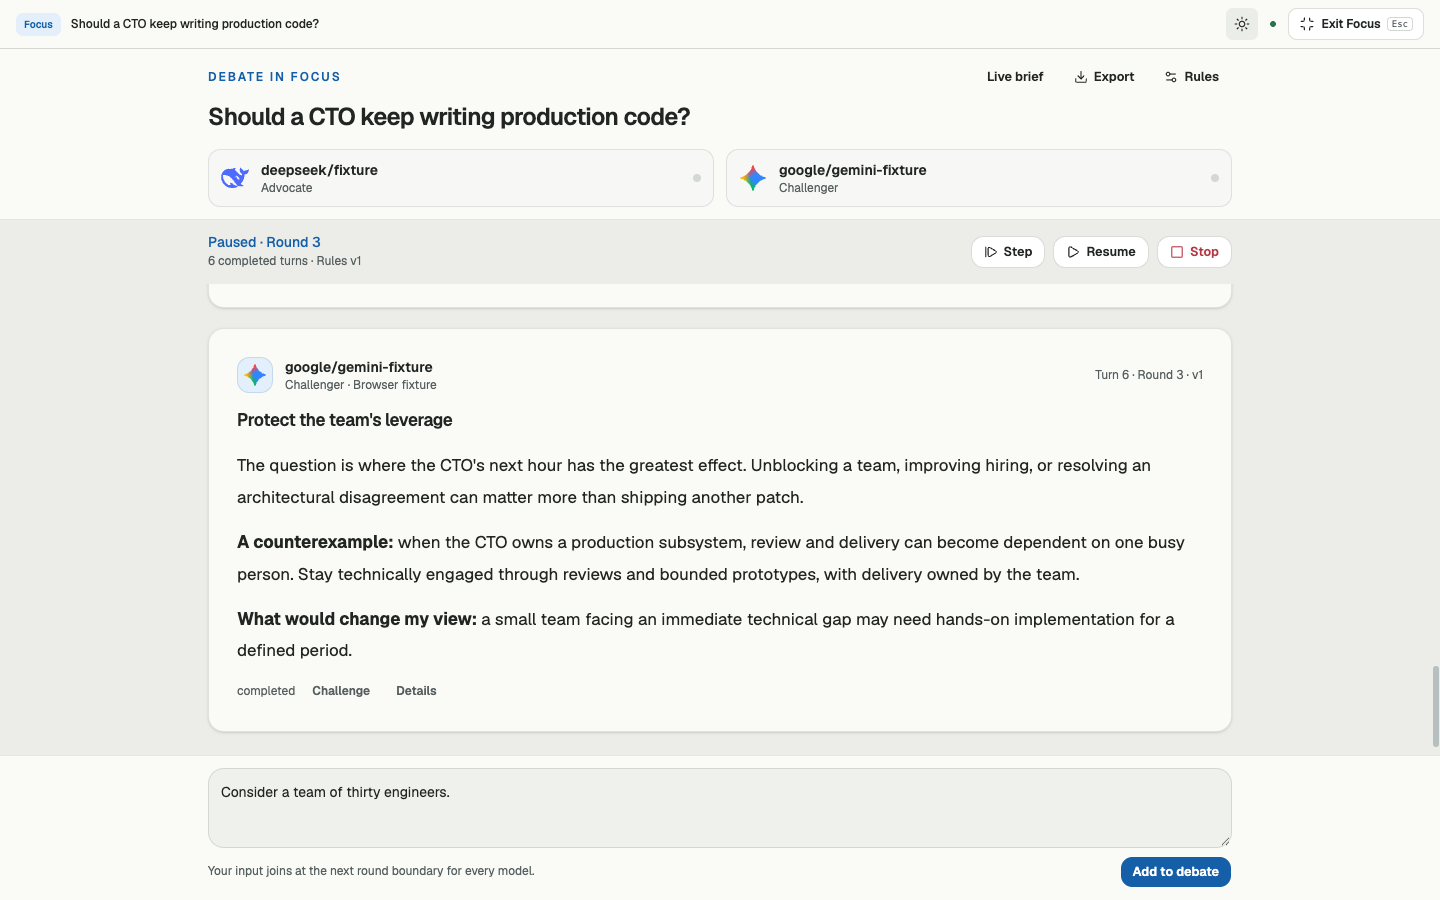
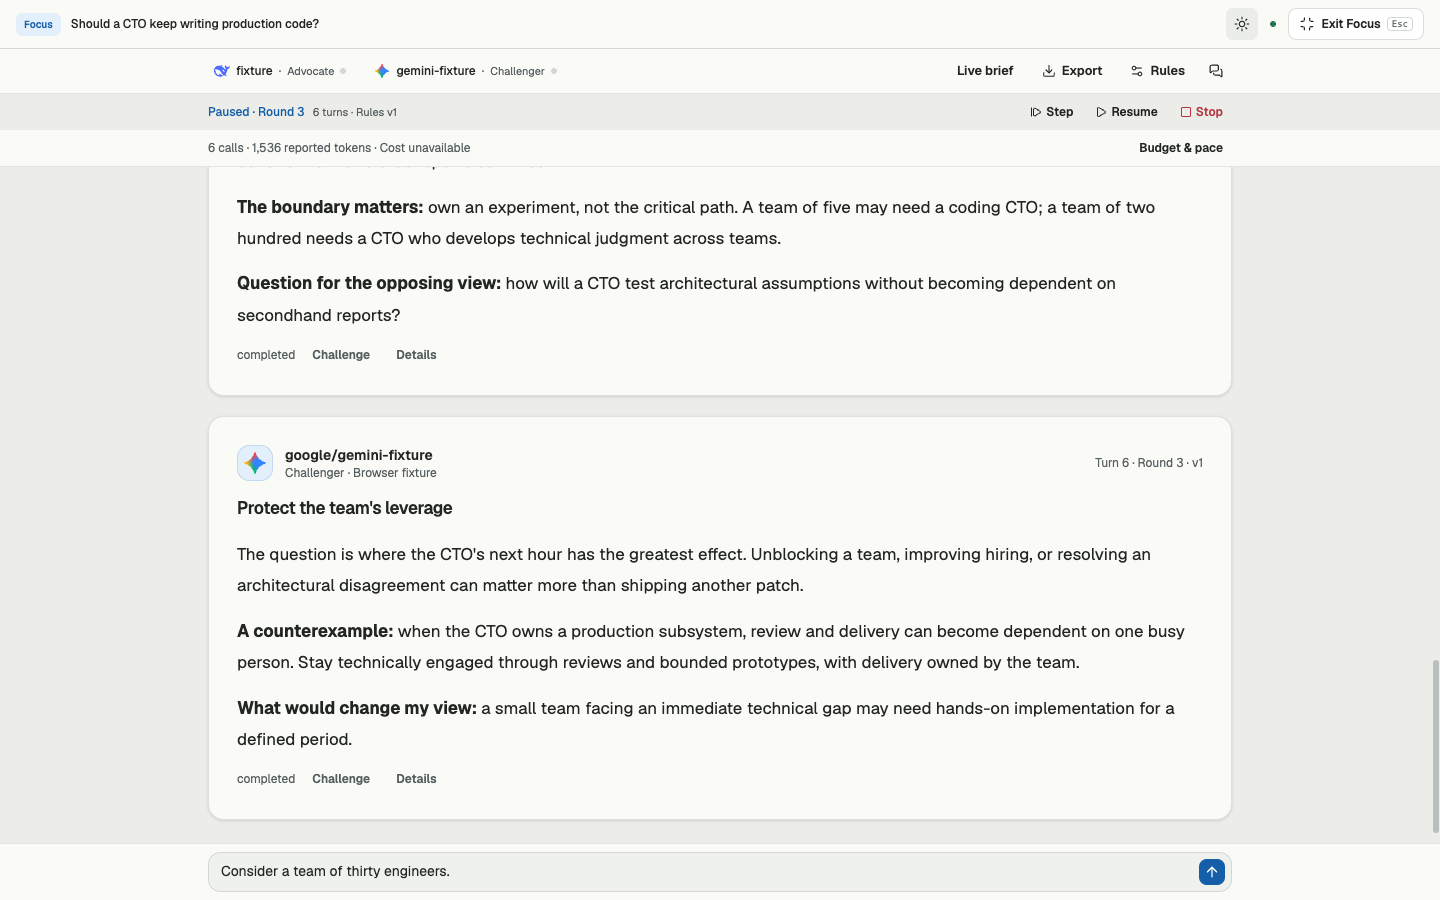
Update Cove website for Beta 7 summaries and budgets

diff --git a/docs/cove/index.html b/docs/cove/index.html
@@ -5,11 +5,11 @@
   <meta name="viewport" content="width=device-width, initial-scale=1">
   <meta name="theme-color" content="#fafbf9">
   <title>Cove — A little more room for your AI.</title>
-  <meta name="description" content="A local-first AI chat app for Mac. Run continuous model debates, focus on the discussion, and filter local history. Download Cove 0.1.0-beta.6.">
+  <meta name="description" content="A local-first AI chat app for Mac. Follow model debates with cited stage summaries, usage estimates, and budget controls. Download Cove 0.1.0-beta.7.">
   <link rel="canonical" href="https://tokenfunplus.github.io/cove/">
   <meta property="og:type" content="website">
   <meta property="og:title" content="Cove — A little more room for your AI.">
-  <meta property="og:description" content="Debate with two to four models, follow the discussion in Focus, and keep your history on your Mac. Cove 0.1.0-beta.6 is available now.">
+  <meta property="og:description" content="Debate with two to four models, follow cited summaries, and manage usage in a compact Focus workspace. Cove 0.1.0-beta.7 is available now.">
   <meta property="og:url" content="https://tokenfunplus.github.io/cove/">
   <meta property="og:image" content="https://tokenfunplus.github.io/assets/cove-social.png?v=7">
   <meta property="og:image:width" content="1200">
@@ -29,25 +29,25 @@
         <a href="#features">Features</a><a href="#answer-tools">Answer tools</a><a href="#files">File chat</a><a href="#workspace">Your workspace</a><a href="#privacy">Privacy</a>
       </nav>
       <button class="menu-toggle" data-menu type="button" aria-controls="navigation" aria-expanded="false">Menu</button>
-      <a class="button compact header-download" href="https://github.com/tokenfunplus/cove/releases/download/v0.1.0-beta.6/Cove-0.1.0-beta.6-arm64.dmg">Download for Mac <span aria-hidden="true">↓</span></a>
+      <a class="button compact header-download" href="https://github.com/tokenfunplus/cove/releases/download/v0.1.0-beta.7/Cove-0.1.0-beta.7-arm64.dmg">Download for Mac <span aria-hidden="true">↓</span></a>
     </div>
   </header>
 
   <main id="main">
     <section class="hero" aria-labelledby="hero-title">
-      <a class="release-badge" href="https://github.com/tokenfunplus/cove/releases/tag/v0.1.0-beta.6">Beta 6 is here · Make room for debate <span aria-hidden="true">↗</span></a>
+      <a class="release-badge" href="https://github.com/tokenfunplus/cove/releases/tag/v0.1.0-beta.7">Beta 7 is here · Follow every turn <span aria-hidden="true">↗</span></a>
       <h1 id="hero-title">A little more room<br><span>for your AI.</span></h1>
       <p class="intro">Bring your models and source files together. Compare answers, put ideas to debate, and make room for every perspective.</p>
       <div class="hero-actions">
-        <a class="button" href="https://github.com/tokenfunplus/cove/releases/download/v0.1.0-beta.6/Cove-0.1.0-beta.6-arm64.dmg"><svg viewBox="0 0 24 24" fill="none" stroke="currentColor" stroke-width="1.7" aria-hidden="true"><path d="M12 3v12m-5-5 5 5 5-5M5 16v4h14v-4" stroke-linecap="round" stroke-linejoin="round"/></svg>Download for Mac</a>
+        <a class="button" href="https://github.com/tokenfunplus/cove/releases/download/v0.1.0-beta.7/Cove-0.1.0-beta.7-arm64.dmg"><svg viewBox="0 0 24 24" fill="none" stroke="currentColor" stroke-width="1.7" aria-hidden="true"><path d="M12 3v12m-5-5 5 5 5-5M5 16v4h14v-4" stroke-linecap="round" stroke-linejoin="round"/></svg>Download for Mac</a>
         <a class="button secondary" href="#preview">See Cove in action <span aria-hidden="true">↓</span></a>
       </div>
-      <p class="system-note">0.1.0-beta.6 &nbsp;·&nbsp; Apple Silicon &nbsp;·&nbsp; macOS 13 or later</p>
+      <p class="system-note">0.1.0-beta.7 &nbsp;·&nbsp; Apple Silicon &nbsp;·&nbsp; macOS 13 or later</p>
     </section>
 
     <section class="wide product-section reveal" id="preview" aria-label="Explore the Cove workspace">
       <div class="preview-controls"><div class="segmented js-only" role="group" aria-label="Choose a workspace preview">
-        <button type="button" aria-pressed="true" data-preview-src="assets/debate-focus-desktop.png?v=6" data-mobile-src="assets/debate-focus-mobile.png?v=6" data-preview-alt="Actual Cove Debate Focus with two model seats and synthetic discussion content." data-preview-caption="Debate Focus. Follow the discussion and keep Pause, Step, Resume, and Stop close by. Synthetic content.">Debate</button>
+        <button type="button" aria-pressed="true" data-preview-src="assets/debate-focus-desktop.png?v=7" data-mobile-src="assets/debate-focus-mobile.png?v=7" data-preview-alt="Actual Cove Debate Focus with two model seats and synthetic discussion content." data-preview-caption="Debate Focus. Follow the discussion and keep Pause, Step, Resume, and Stop close by. Synthetic content.">Debate</button>
         <button type="button" aria-pressed="false" data-preview-src="assets/chat-light.webp?v=4" data-mobile-src="assets/chat-mobile.webp?v=4" data-preview-alt="Actual Cove workspace in light mode, showing a sample conversation about weekend creative projects." data-preview-caption="The actual Cove workspace. Sample prompts and simulated model replies.">Chat</button>
         <button type="button" aria-pressed="false" data-preview-src="assets/compare-light.webp?v=4" data-mobile-src="assets/compare-mobile.webp?v=4" data-preview-alt="Actual Cove workspace with two simulated model replies side by side and one answer selected for the next turn." data-preview-caption="Compare perspectives and choose the answer to continue with. Simulated model replies.">Compare models</button>
         <button type="button" aria-pressed="false" data-preview-src="assets/workbench-desktop.png?v=5" data-mobile-src="assets/workbench-mobile.png?v=5" data-preview-alt="Cove's actual answer workbench beside a synthetic conversation." data-preview-caption="Edit a window-local draft and review model revisions before applying them. Synthetic content.">Workbench</button>
@@ -60,11 +60,11 @@
       <div class="product-stage"><div class="app-window">
         <div class="window-bar" aria-hidden="true"><i></i><i></i><i></i><span>Cove</span></div>
         <picture>
-          <source data-preview-mobile media="(max-width: 540px)" srcset="assets/debate-focus-mobile.png?v=6">
-          <img class="product-shot" data-preview src="assets/debate-focus-desktop.png?v=6" width="1440" height="900" alt="Actual Cove Debate Focus with two model seats and synthetic discussion content." fetchpriority="high">
+          <source data-preview-mobile media="(max-width: 540px)" srcset="assets/debate-focus-mobile.png?v=7">
+          <img class="product-shot" data-preview src="assets/debate-focus-desktop.png?v=7" width="1440" height="900" alt="Actual Cove Debate Focus with two model seats and synthetic discussion content." fetchpriority="high">
         </picture>
       </div></div>
-      <p class="preview-caption"><span data-preview-description>Debate Focus. Follow the discussion and keep controls close by. Synthetic content.</span> <a data-full-preview href="assets/debate-focus-desktop.png?v=6" target="_blank" rel="noopener">Open full preview ↗</a></p>
+      <p class="preview-caption"><span data-preview-description>Debate Focus. Follow the discussion and keep controls close by. Synthetic content.</span> <a data-full-preview href="assets/debate-focus-desktop.png?v=7" target="_blank" rel="noopener">Open full preview ↗</a></p>
     </section>
 
     <div class="wrap benefits" aria-label="A few reasons to make room for Cove">
@@ -74,12 +74,12 @@
     </div>
 
     <section class="wrap section" id="debate" aria-labelledby="debate-title">
-      <div class="center-heading"><p class="eyebrow">New in Beta 6</p><h2 id="debate-title">Make room for disagreement.</h2><p>Give two to four models a question, a role, and ground rules. Let the discussion develop until you pause or stop it.</p></div>
+      <div class="center-heading"><p class="eyebrow">New in Beta 7</p><h2 id="debate-title">Make room for disagreement.</h2><p>Give two to four models a question and ground rules. Follow cited stage summaries and keep an eye on usage as the discussion develops.</p></div>
       <div class="privacy-grid">
         <article class="privacy-card"><h3>A discussion you can steer.</h3><p>Begin with independent positions, follow rotating turns, and add an intervention for the next round. Pause, step through a turn, resume, or stop permanently. Checkpoints cite participants' positions without declaring an automatic winner.</p><div class="privacy-points"><span>2–4 model seats</span><span>Round-based interventions</span><span>Saved transcripts</span></div></article>
-        <article class="privacy-card remote"><h3>Give the debate your attention.</h3><p>Focus puts the transcript at the center, with participant activity and a live brief when you need it. Your reading position, draft, and controls stay with you when you switch views.</p><div class="privacy-points"><span>Debate Focus</span><span>Live brief</span><span>Reading anchors</span></div></article>
+        <article class="privacy-card remote"><h3>Give the debate your attention.</h3><p>Compact Focus puts the transcript at the center. Stage summaries link new ideas, position changes, and open questions to original turns. Your reading position and draft stay with you when you switch views.</p><div class="privacy-points"><span>Compact Focus</span><span>Cited summaries</span><span>Reading anchors</span></div></article>
       </div>
-      <p class="privacy-note">Model calls use your configured Provider Keys and may incur charges while a debate runs. NearAI participation needs the debate page open for encryption and verification; service-driven models can continue with the browser closed. <a class="text-link" style="font-size:inherit" href="https://github.com/tokenfunplus/cove/blob/main/docs/debate.md">Read the Debate guide ↗</a></p>
+      <p class="privacy-note">Track cumulative reported tokens and optional cost estimates, set a turn interval, and choose budget reminders or explicit automatic pause. Summary calls also incur usage. Budgets are not Provider-side spending caps; active calls can exceed a threshold. NearAI participation needs the debate page open for encryption and verification; service-driven models can continue with the browser closed. <a class="text-link" style="font-size:inherit" href="https://github.com/tokenfunplus/cove/blob/main/docs/debate.md">Read the Debate guide ↗</a></p>
     </section>
 
     <section class="wrap section feature-split" id="features" aria-labelledby="features-title">
@@ -158,10 +158,10 @@
 
     <section class="wrap" id="download" aria-labelledby="download-title">
       <div class="download-panel">
-        <div class="download-heading"><div class="download-title"><img src="icon.svg?v=4" width="59" height="59" alt=""><div><h2 id="download-title">A good place to start.</h2><p>Cove for Mac &nbsp;·&nbsp; Public beta 0.1.0-beta.6</p></div></div><div class="download-actions"><a class="button" href="https://github.com/tokenfunplus/cove/releases/download/v0.1.0-beta.6/Cove-0.1.0-beta.6-arm64.dmg">Download for Mac <span aria-hidden="true">↓</span></a><p>Apple Silicon &nbsp;·&nbsp; macOS 13+</p></div></div>
+        <div class="download-heading"><div class="download-title"><img src="icon.svg?v=4" width="59" height="59" alt=""><div><h2 id="download-title">A good place to start.</h2><p>Cove for Mac &nbsp;·&nbsp; Public beta 0.1.0-beta.7</p></div></div><div class="download-actions"><a class="button" href="https://github.com/tokenfunplus/cove/releases/download/v0.1.0-beta.7/Cove-0.1.0-beta.7-arm64.dmg">Download for Mac <span aria-hidden="true">↓</span></a><p>Apple Silicon &nbsp;·&nbsp; macOS 13+</p></div></div>
         <ol class="install-steps"><li><div><strong>Download the beta</strong>Get the DMG from GitHub Releases. Developer ID signed and Apple notarized.</div></li><li><div><strong>Make it at home</strong>Open the DMG and drag Cove to Applications. Launch it from there.</div></li><li><div><strong>Bring your models</strong>Add a provider and API key in Settings, choose a model, and start a conversation.</div></li></ol>
       </div>
-      <div class="release-links"><a href="https://github.com/tokenfunplus/cove/blob/main/docs/user-guide.md">User guide ↗</a><a href="https://github.com/tokenfunplus/cove/releases/tag/v0.1.0-beta.6">Release notes ↗</a><a href="https://github.com/tokenfunplus/cove/releases/download/v0.1.0-beta.6/Cove-0.1.0-beta.6-arm64.dmg.sha256">SHA-256 checksum ↗</a><a href="https://github.com/tokenfunplus/cove">View source ↗</a></div>
+      <div class="release-links"><a href="https://github.com/tokenfunplus/cove/blob/main/docs/user-guide.md">User guide ↗</a><a href="https://github.com/tokenfunplus/cove/releases/tag/v0.1.0-beta.7">Release notes ↗</a><a href="https://github.com/tokenfunplus/cove/releases/download/v0.1.0-beta.7/Cove-0.1.0-beta.7-arm64.dmg.sha256">SHA-256 checksum ↗</a><a href="https://github.com/tokenfunplus/cove">View source ↗</a></div>
     </section>
 
     <section class="wrap section faq-section" aria-labelledby="faq-title">
@@ -172,15 +172,15 @@
         <details><summary>Are models running on my Mac?</summary><p>Cove stores history locally and connects to your configured providers. Inference happens wherever the selected provider runs. Local storage does not imply local model execution.</p></details>
         <details><summary>What can Cove verify?</summary><p>Supported NearAI models can use browser-side encryption and hardware attestation. Evidence is shown per response and support varies by model. Ordinary HTTPS does not by itself prove confidential model execution. The NearAI preset currently uses its staging service.</p></details>
         <details><summary>Which files can I attach?</summary><p>File chat supports UTF-8 text, Markdown, code, and text-based PDFs: up to four files per turn, each up to 4 MiB. Extracted text and context have additional limits. Scanned-only PDFs require OCR first. Original bytes and source text are saved locally; selected Providers receive extracted text.</p></details>
-        <details><summary>What changed in Beta 6?</summary><p>Run continuous debates with two to four model seats, ground rules, interventions, checkpoints, and Pause, Step, Resume, and Stop. Debate Focus makes room for the discussion. History gains time/type filters and Debate state labels, and Provider setup clears stale values when changing connection type.</p></details>
-        <details><summary>Can I return to an earlier beta?</summary><p>Beta 6 migrates the local database to schema 20 for Debate sessions, turns, and interventions. Earlier builds cannot reopen the upgraded database. Quit Cove and keep a backup of the data directory before upgrading if you need a rollback path; Keychain credentials are stored separately.</p></details>
+        <details><summary>What changed in Beta 7?</summary><p>Add cited stage summaries, cumulative token and cost estimates, optional budget reminders or automatic pause, and configurable turn intervals to continuous debates. Compact standard and Focus layouts make more room for reading. Provider key validation and summary recovery are also more reliable.</p></details>
+        <details><summary>Can I return to an earlier beta?</summary><p>Beta 7 migrates the local database to schema 21 for Debate summaries and budget controls. Earlier builds cannot reopen the upgraded database. Quit Cove and keep a backup of the data directory before upgrading if you need a rollback path; Keychain credentials are stored separately.</p></details>
         <details><summary>Can I change the interface language?</summary><p>The interface currently uses English. Messages, conversation titles, and prompts support Unicode content, including Chinese.</p></details>
         <details><summary>How do I get beta updates?</summary><p>Choose Check for Beta Updates in the Launcher to find newer beta, release-candidate, or final versions. This is an explicit check and does not install updates. Check for Updates continues to follow the stable channel; older builds can download beta updates from GitHub Releases.</p></details>
       </div>
     </section>
   </main>
 
-  <footer class="site-footer"><div class="wrap footer-inner"><a class="footer-brand" href="../"><img src="icon.svg?v=4" width="24" height="24" alt="">Cove &nbsp;·&nbsp; Made by TokenFunPlus</a><div class="footer-links"><a href="https://discord.gg/7jdddhG8ZG">Discord</a><a href="https://github.com/tokenfunplus/cove">GitHub</a><a href="https://github.com/tokenfunplus/cove/blob/main/docs/privacy.md">Privacy</a><a href="https://github.com/tokenfunplus/cove/releases/tag/v0.1.0-beta.6">Release notes</a><a href="../">All projects ↗</a></div></div></footer>
+  <footer class="site-footer"><div class="wrap footer-inner"><a class="footer-brand" href="../"><img src="icon.svg?v=4" width="24" height="24" alt="">Cove &nbsp;·&nbsp; Made by TokenFunPlus</a><div class="footer-links"><a href="https://discord.gg/7jdddhG8ZG">Discord</a><a href="https://github.com/tokenfunplus/cove">GitHub</a><a href="https://github.com/tokenfunplus/cove/blob/main/docs/privacy.md">Privacy</a><a href="https://github.com/tokenfunplus/cove/releases/tag/v0.1.0-beta.7">Release notes</a><a href="../">All projects ↗</a></div></div></footer>
   <dialog class="preview-dialog" data-preview-dialog aria-label="Full Cove workspace preview"><button class="dialog-close" type="button" data-close-dialog>Close ×</button><img src="assets/chat-light.webp?v=4" width="2160" height="1440" alt="The Cove workspace preview."></dialog>
 </body>
 </html>

diff --git a/docs/index.html b/docs/index.html
@@ -22,7 +22,7 @@
   <main id="main" class="container">
     <section class="home-hero"><p class="eyebrow">AI tools / Apps / Experiments</p><h1>where tokens<br>meet <span>ideas.</span></h1><p>We build AI tools and applications for everyday work, and smaller tools that make familiar workspaces feel like your own.</p></section>
     <div class="project-grid">
-      <a class="project-tile" href="cove/"><img src="assets/cove-social.png?v=7" width="1200" height="630" alt="Cove — Your models. Your workspace."><div class="project-tile-copy"><p class="eyebrow">AI chat for Mac / Beta 6</p><h2>Cove</h2><p>Compare models, run continuous debates, and keep your conversations in your own Mac workspace.</p><strong>Meet Cove <span aria-hidden="true">↗</span></strong></div></a>
+      <a class="project-tile" href="cove/"><img src="assets/cove-social.png?v=7" width="1200" height="630" alt="Cove — Your models. Your workspace."><div class="project-tile-copy"><p class="eyebrow">AI chat for Mac / Beta 7</p><h2>Cove</h2><p>Compare models, follow debates with cited summaries, and keep your conversations in your own Mac workspace.</p><strong>Meet Cove <span aria-hidden="true">↗</span></strong></div></a>
       <a class="project-tile" href="binance-studio/"><img src="assets/binance-social.png?v=2" width="1200" height="630" alt="Binance Studio — A workspace that feels like you."><div class="project-tile-copy"><p class="eyebrow">Browser extension / Public source</p><h2>Binance Studio</h2><p>Themes, layouts, and price effects for Binance Global. Make your browser workspace your own.</p><strong>Explore Binance Studio <span aria-hidden="true">↗</span></strong></div></a>
     </div>
   </main>

diff --git a/README.md b/README.md
@@ -21,7 +21,7 @@ GitHub Pages publishes `docs/` from `main`. A push to that branch triggers a new
 ## Content and privacy
 
 - All copy is English. Product capabilities must match the relevant project documentation.
-- Cove is public and its `0.1.0-beta.6` release is available. Keep the version, requirements, release links, file chat limits, and download link aligned with the published GitHub release. The current UI is English and user content supports Unicode. Screenshot previews on the website do not contact a model provider.
+- Cove is public and its `0.1.0-beta.7` release is available. Keep the version, requirements, release links, file chat limits, and download link aligned with the published GitHub release. The current UI is English and user content supports Unicode. Screenshot previews on the website do not contact a model provider.
 - Cove stores history locally, while prompts go to the selected provider. Do not imply that model execution is local or that all providers support confidential inference.
 - Binance Studio screenshots come from its public simulation pages. Prices and orders shown are examples, with no account connected.
 - Keep credentials, conversation data, personal notes, and local application state out of this repository.
@@ -54,3 +54,5 @@ The Beta 5 update adds answer tools, richer model selection, response details, c
 The current organization/website cover is rendered at 1200 x 630 from [the shared HTML source](https://github.com/tokenfunplus/.github/blob/main/design/cove/index.html), with its actual synthetic workbench capture. The landing preview starts with the workbench and includes the model picker. Model catalog values are simulated; icons do not establish verification. Earlier social artwork is retained in Git history. Header navigation contrast remains readable over screenshots, and preview controls wrap on narrow screens.
 
 The Beta 6 update adds continuous Debate, Debate Focus, time/type history filters, state/round labels, and schema 20 upgrade guidance. The new Debate and history captures use the synthetic browser acceptance fixtures from Cove UI source `e9323d1`, with isolated temporary data and a loopback simulated Provider. The mobile Debate capture shows dark mode. Earlier captures and the shared organization cover retain their provenance above.
+
+The Beta 7 update aligns release links and schema 21 guidance with Cove source `4941d918b57f96dd1af3863f0c4c8c62e79dde24`. It describes cited stage summaries, reported usage and optional cost estimates, explicit budget pause, configurable pacing, and compact Focus. The desktop Focus image comes from that source tree; the mobile Focus image was captured by the isolated browser acceptance fixture at UI source `2c153d2c57eb76b374ca80cdb1f0298edcbd5444`, included in this release. Both use synthetic content and loopback simulated Providers. Other images retain their recorded provenance.
